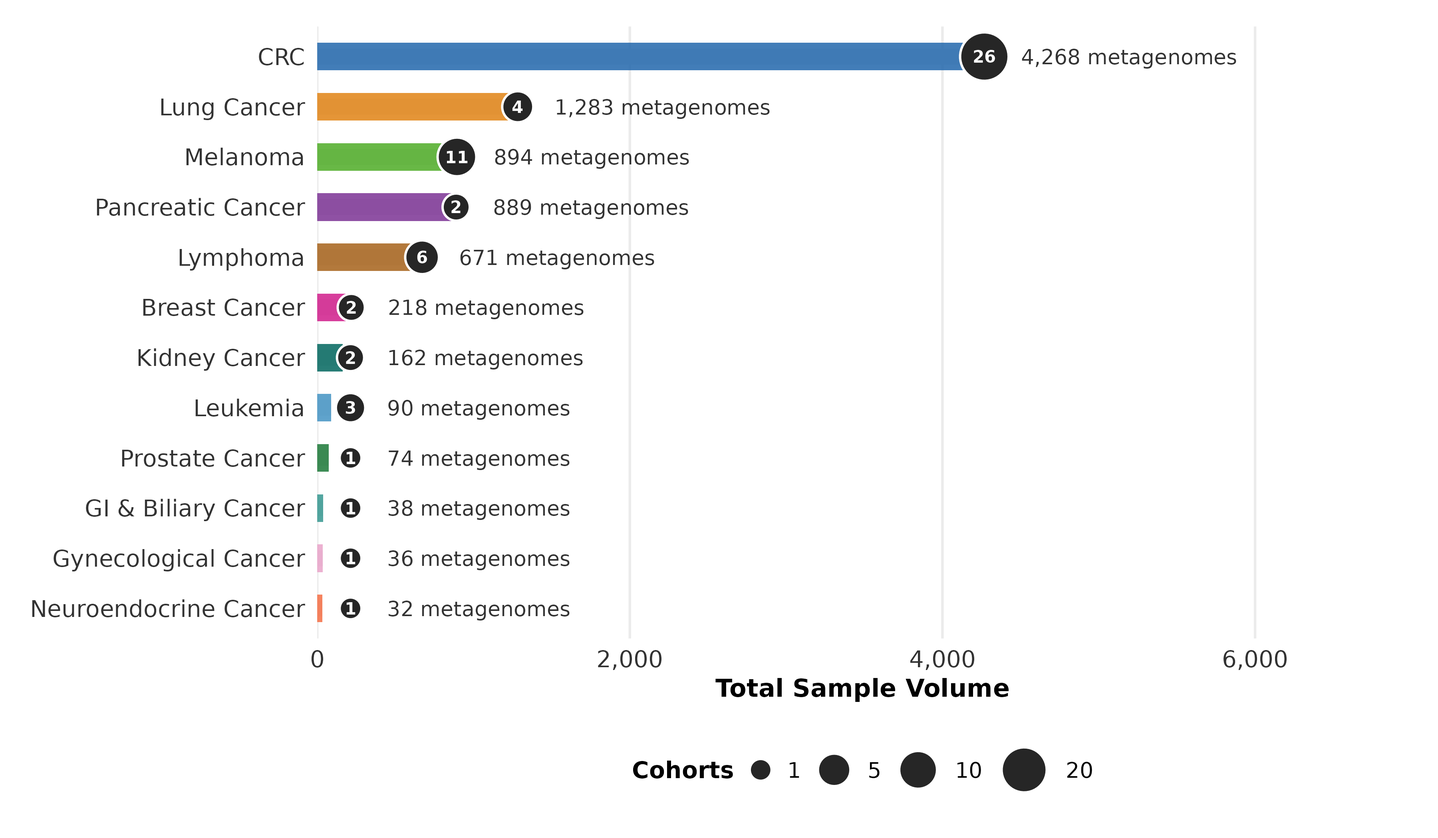
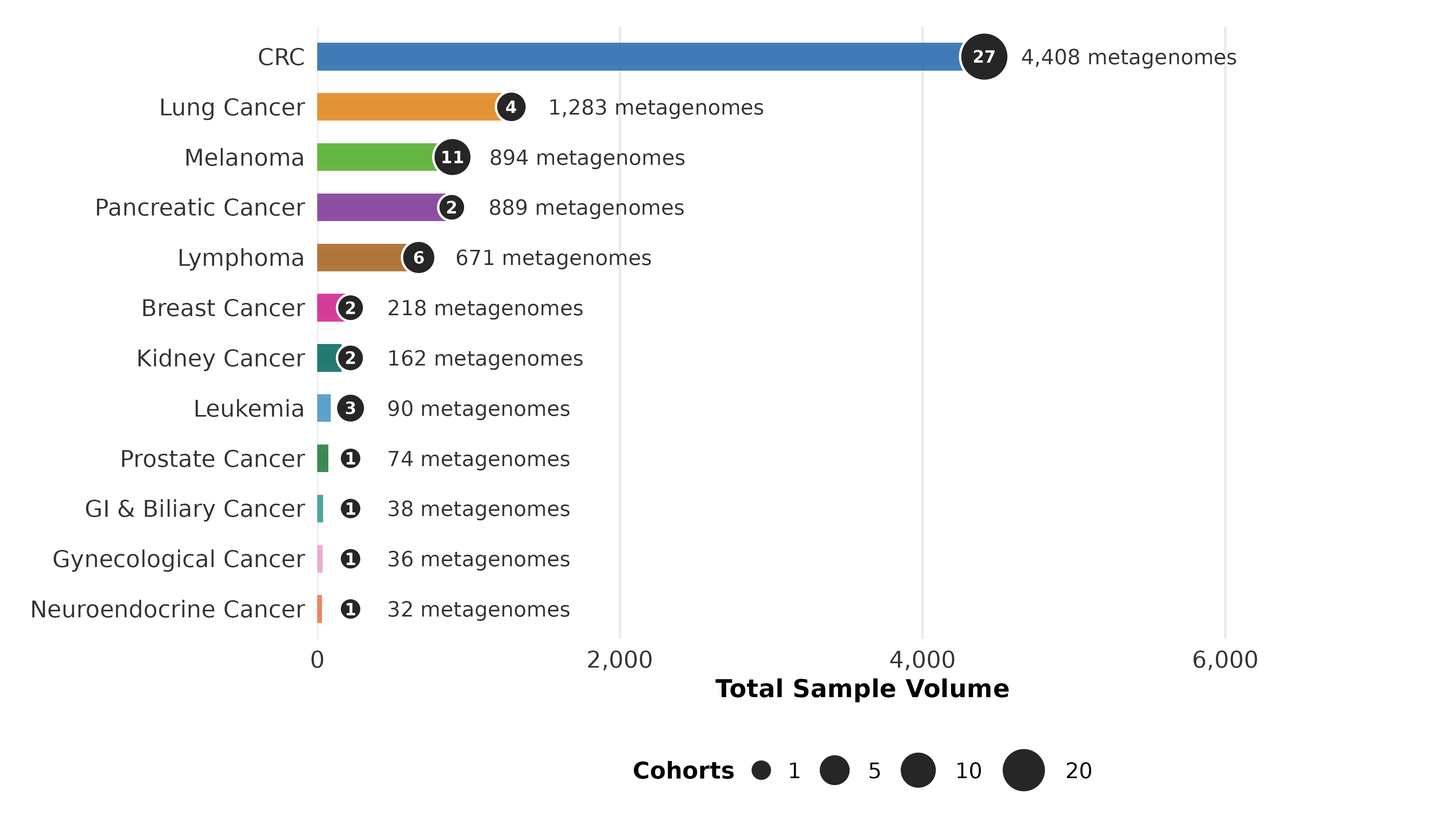
Update dashboard 2026-09-07 11:58

diff --git a/global_map.html b/global_map.html
@@ -2,6 +2,6 @@
 <head><meta charset="utf-8" /></head>
 <body>
     <div style="height:500px; width:100%;">                        <script>window.PlotlyConfig = {MathJaxConfig: 'local'};</script>
-        <script charset="utf-8" src="https://cdn.plot.ly/plotly-3.7.0.min.js" integrity="sha256-jvTGqxNp8AGWEcvNLVuKr+8j5dGe9Yw51LQkmDH+IYA=" crossorigin="anonymous"></script>                <div id="2e5592ee-933a-47bc-82ba-f1928764b4ab" class="plotly-graph-div" style="height:100%; width:100%;"></div>            <script>                window.PLOTLYENV=window.PLOTLYENV || {};                                if (document.getElementById("2e5592ee-933a-47bc-82ba-f1928764b4ab")) {                    Plotly.newPlot(                        "2e5592ee-933a-47bc-82ba-f1928764b4ab",                        [{"colorscale":[[0,"#FEF9E7"],[1,"#E59866"]],"hoverinfo":"text","locations":["AUT","CAN","CHN","CZE","FRA","DEU","IND","ISR","ITA","JPN","NLD","POL","KOR","ESP","CHE","TUR","GBR","USA"],"marker":{"line":{"color":"white","width":0.5}},"showscale":false,"text":["\u003cb\u003eAustria\u003c\u002fb\u003e\u003cbr\u003eTotal samples: 154\u003cbr\u003eStudies: 1\u003cbr\u003e\u2500\u2500\u2500\u2500\u2500\u2500\u2500\u2500\u2500\u2500\u2500\u2500\u2500\u003cbr\u003eCRC: 93","\u003cb\u003eCanada\u003c\u002fb\u003e\u003cbr\u003eTotal samples: 98\u003cbr\u003eStudies: 2\u003cbr\u003e\u2500\u2500\u2500\u2500\u2500\u2500\u2500\u2500\u2500\u2500\u2500\u2500\u2500\u003cbr\u003eMelanoma: 60\u003cbr\u003eCRC: 24","\u003cb\u003eChina\u003c\u002fb\u003e\u003cbr\u003eTotal samples: 756\u003cbr\u003eStudies: 7\u003cbr\u003e\u2500\u2500\u2500\u2500\u2500\u2500\u2500\u2500\u2500\u2500\u2500\u2500\u2500\u003cbr\u003eCRC: 418\u003cbr\u003eLymphoma: 111\u003cbr\u003eLeukemia: 20","\u003cb\u003eCzech Republic\u003c\u002fb\u003e\u003cbr\u003eTotal samples: 327\u003cbr\u003eStudies: 2\u003cbr\u003e\u2500\u2500\u2500\u2500\u2500\u2500\u2500\u2500\u2500\u2500\u2500\u2500\u2500\u003cbr\u003eCRC: 281","\u003cb\u003eFrance\u003c\u002fb\u003e\u003cbr\u003eTotal samples: 1,373\u003cbr\u003eStudies: 4\u003cbr\u003e\u2500\u2500\u2500\u2500\u2500\u2500\u2500\u2500\u2500\u2500\u2500\u2500\u2500\u003cbr\u003eLung Cancer: 1,217\u003cbr\u003eCRC: 95","\u003cb\u003eGermany\u003c\u002fb\u003e\u003cbr\u003eTotal samples: 430\u003cbr\u003eStudies: 3\u003cbr\u003e\u2500\u2500\u2500\u2500\u2500\u2500\u2500\u2500\u2500\u2500\u2500\u2500\u2500\u003cbr\u003eLymphoma: 229\u003cbr\u003ePancreatic Cancer: 76\u003cbr\u003eCRC: 60","\u003cb\u003eIndia\u003c\u002fb\u003e\u003cbr\u003eTotal samples: 60\u003cbr\u003eStudies: 1\u003cbr\u003e\u2500\u2500\u2500\u2500\u2500\u2500\u2500\u2500\u2500\u2500\u2500\u2500\u2500\u003cbr\u003eCRC: 30","\u003cb\u003eIsrael\u003c\u002fb\u003e\u003cbr\u003eTotal samples: 42\u003cbr\u003eStudies: 1\u003cbr\u003e\u2500\u2500\u2500\u2500\u2500\u2500\u2500\u2500\u2500\u2500\u2500\u2500\u2500\u003cbr\u003eMelanoma: 42","\u003cb\u003eItaly\u003c\u002fb\u003e\u003cbr\u003eTotal samples: 484\u003cbr\u003eStudies: 4\u003cbr\u003e\u2500\u2500\u2500\u2500\u2500\u2500\u2500\u2500\u2500\u2500\u2500\u2500\u2500\u003cbr\u003eCRC: 373","\u003cb\u003eJapan\u003c\u002fb\u003e\u003cbr\u003eTotal samples: 1,766\u003cbr\u003eStudies: 4\u003cbr\u003e\u2500\u2500\u2500\u2500\u2500\u2500\u2500\u2500\u2500\u2500\u2500\u2500\u2500\u003cbr\u003eCRC: 807\u003cbr\u003ePancreatic Cancer: 560","\u003cb\u003eNetherlands\u003c\u002fb\u003e\u003cbr\u003eTotal samples: 75\u003cbr\u003eStudies: 2\u003cbr\u003e\u2500\u2500\u2500\u2500\u2500\u2500\u2500\u2500\u2500\u2500\u2500\u2500\u2500\u003cbr\u003eMelanoma: 75","\u003cb\u003ePoland\u003c\u002fb\u003e\u003cbr\u003eTotal samples: 322\u003cbr\u003eStudies: 2\u003cbr\u003e\u2500\u2500\u2500\u2500\u2500\u2500\u2500\u2500\u2500\u2500\u2500\u2500\u2500\u003cbr\u003eBreast Cancer: 153\u003cbr\u003eLymphoma: 60\u003cbr\u003eLeukemia: 40","\u003cb\u003eSouth Korea\u003c\u002fb\u003e\u003cbr\u003eTotal samples: 149\u003cbr\u003eStudies: 2\u003cbr\u003e\u2500\u2500\u2500\u2500\u2500\u2500\u2500\u2500\u2500\u2500\u2500\u2500\u2500\u003cbr\u003eLymphoma: 149","\u003cb\u003eSpain\u003c\u002fb\u003e\u003cbr\u003eTotal samples: 355\u003cbr\u003eStudies: 3\u003cbr\u003e\u2500\u2500\u2500\u2500\u2500\u2500\u2500\u2500\u2500\u2500\u2500\u2500\u2500\u003cbr\u003ePancreatic Cancer: 253\u003cbr\u003eCRC: 90\u003cbr\u003eMelanoma: 12","\u003cb\u003eSwitzerland\u003c\u002fb\u003e\u003cbr\u003eTotal samples: 29\u003cbr\u003eStudies: 1\u003cbr\u003e\u2500\u2500\u2500\u2500\u2500\u2500\u2500\u2500\u2500\u2500\u2500\u2500\u2500\u003cbr\u003eProstate Cancer: 29","\u003cb\u003eTurkey\u003c\u002fb\u003e\u003cbr\u003eTotal samples: 57\u003cbr\u003eStudies: 1\u003cbr\u003e\u2500\u2500\u2500\u2500\u2500\u2500\u2500\u2500\u2500\u2500\u2500\u2500\u2500\u003cbr\u003eCRC: 18","\u003cb\u003eUnited Kingdom\u003c\u002fb\u003e\u003cbr\u003eTotal samples: 143\u003cbr\u003eStudies: 2\u003cbr\u003e\u2500\u2500\u2500\u2500\u2500\u2500\u2500\u2500\u2500\u2500\u2500\u2500\u2500\u003cbr\u003eMelanoma: 98\u003cbr\u003eProstate Cancer: 45","\u003cb\u003eUnited States\u003c\u002fb\u003e\u003cbr\u003eTotal samples: 2,096\u003cbr\u003eStudies: 13\u003cbr\u003e\u2500\u2500\u2500\u2500\u2500\u2500\u2500\u2500\u2500\u2500\u2500\u2500\u2500\u003cbr\u003eCRC: 836\u003cbr\u003eMelanoma: 607\u003cbr\u003eLymphoma: 122"],"z":{"dtype":"i2","bdata":"mgBiAPQCRwFdBa4BPAAqAOQB5gZLAEIBlQBjAR0AOQCPADAI"},"type":"choropleth"},{"hoverinfo":"text","locations":["AUT","CAN","CHN","CZE","FRA","DEU","IND","ISR","ITA","JPN","NLD","POL","KOR","ESP","CHE","TUR","GBR","USA"],"marker":{"color":"#2166AC","line":{"color":"white","width":1},"opacity":0.7,"size":{"dtype":"f8","bdata":"AAAAAAAAIEAAAAAAAAAgQD0K16NwPS5AAAAAAAAAIED2KFyPwnU7QDMzMzMzMyFAAAAAAAAAIEAAAAAAAAAgQFyPwvUoXCNAKVyPwvWoQUAAAAAAAAAgQAAAAAAAACBAAAAAAAAAIEAAAAAAAAAgQAAAAAAAACBAAAAAAAAAIEAAAAAAAAAgQPYoXI\u002fC9URA"}},"mode":"markers","text":["\u003cb\u003eAustria\u003c\u002fb\u003e\u003cbr\u003eTotal samples: 154\u003cbr\u003eStudies: 1\u003cbr\u003e\u2500\u2500\u2500\u2500\u2500\u2500\u2500\u2500\u2500\u2500\u2500\u2500\u2500\u003cbr\u003eCRC: 93","\u003cb\u003eCanada\u003c\u002fb\u003e\u003cbr\u003eTotal samples: 98\u003cbr\u003eStudies: 2\u003cbr\u003e\u2500\u2500\u2500\u2500\u2500\u2500\u2500\u2500\u2500\u2500\u2500\u2500\u2500\u003cbr\u003eMelanoma: 60\u003cbr\u003eCRC: 24","\u003cb\u003eChina\u003c\u002fb\u003e\u003cbr\u003eTotal samples: 756\u003cbr\u003eStudies: 7\u003cbr\u003e\u2500\u2500\u2500\u2500\u2500\u2500\u2500\u2500\u2500\u2500\u2500\u2500\u2500\u003cbr\u003eCRC: 418\u003cbr\u003eLymphoma: 111\u003cbr\u003eLeukemia: 20","\u003cb\u003eCzech Republic\u003c\u002fb\u003e\u003cbr\u003eTotal samples: 327\u003cbr\u003eStudies: 2\u003cbr\u003e\u2500\u2500\u2500\u2500\u2500\u2500\u2500\u2500\u2500\u2500\u2500\u2500\u2500\u003cbr\u003eCRC: 281","\u003cb\u003eFrance\u003c\u002fb\u003e\u003cbr\u003eTotal samples: 1,373\u003cbr\u003eStudies: 4\u003cbr\u003e\u2500\u2500\u2500\u2500\u2500\u2500\u2500\u2500\u2500\u2500\u2500\u2500\u2500\u003cbr\u003eLung Cancer: 1,217\u003cbr\u003eCRC: 95","\u003cb\u003eGermany\u003c\u002fb\u003e\u003cbr\u003eTotal samples: 430\u003cbr\u003eStudies: 3\u003cbr\u003e\u2500\u2500\u2500\u2500\u2500\u2500\u2500\u2500\u2500\u2500\u2500\u2500\u2500\u003cbr\u003eLymphoma: 229\u003cbr\u003ePancreatic Cancer: 76\u003cbr\u003eCRC: 60","\u003cb\u003eIndia\u003c\u002fb\u003e\u003cbr\u003eTotal samples: 60\u003cbr\u003eStudies: 1\u003cbr\u003e\u2500\u2500\u2500\u2500\u2500\u2500\u2500\u2500\u2500\u2500\u2500\u2500\u2500\u003cbr\u003eCRC: 30","\u003cb\u003eIsrael\u003c\u002fb\u003e\u003cbr\u003eTotal samples: 42\u003cbr\u003eStudies: 1\u003cbr\u003e\u2500\u2500\u2500\u2500\u2500\u2500\u2500\u2500\u2500\u2500\u2500\u2500\u2500\u003cbr\u003eMelanoma: 42","\u003cb\u003eItaly\u003c\u002fb\u003e\u003cbr\u003eTotal samples: 484\u003cbr\u003eStudies: 4\u003cbr\u003e\u2500\u2500\u2500\u2500\u2500\u2500\u2500\u2500\u2500\u2500\u2500\u2500\u2500\u003cbr\u003eCRC: 373","\u003cb\u003eJapan\u003c\u002fb\u003e\u003cbr\u003eTotal samples: 1,766\u003cbr\u003eStudies: 4\u003cbr\u003e\u2500\u2500\u2500\u2500\u2500\u2500\u2500\u2500\u2500\u2500\u2500\u2500\u2500\u003cbr\u003eCRC: 807\u003cbr\u003ePancreatic Cancer: 560","\u003cb\u003eNetherlands\u003c\u002fb\u003e\u003cbr\u003eTotal samples: 75\u003cbr\u003eStudies: 2\u003cbr\u003e\u2500\u2500\u2500\u2500\u2500\u2500\u2500\u2500\u2500\u2500\u2500\u2500\u2500\u003cbr\u003eMelanoma: 75","\u003cb\u003ePoland\u003c\u002fb\u003e\u003cbr\u003eTotal samples: 322\u003cbr\u003eStudies: 2\u003cbr\u003e\u2500\u2500\u2500\u2500\u2500\u2500\u2500\u2500\u2500\u2500\u2500\u2500\u2500\u003cbr\u003eBreast Cancer: 153\u003cbr\u003eLymphoma: 60\u003cbr\u003eLeukemia: 40","\u003cb\u003eSouth Korea\u003c\u002fb\u003e\u003cbr\u003eTotal samples: 149\u003cbr\u003eStudies: 2\u003cbr\u003e\u2500\u2500\u2500\u2500\u2500\u2500\u2500\u2500\u2500\u2500\u2500\u2500\u2500\u003cbr\u003eLymphoma: 149","\u003cb\u003eSpain\u003c\u002fb\u003e\u003cbr\u003eTotal samples: 355\u003cbr\u003eStudies: 3\u003cbr\u003e\u2500\u2500\u2500\u2500\u2500\u2500\u2500\u2500\u2500\u2500\u2500\u2500\u2500\u003cbr\u003ePancreatic Cancer: 253\u003cbr\u003eCRC: 90\u003cbr\u003eMelanoma: 12","\u003cb\u003eSwitzerland\u003c\u002fb\u003e\u003cbr\u003eTotal samples: 29\u003cbr\u003eStudies: 1\u003cbr\u003e\u2500\u2500\u2500\u2500\u2500\u2500\u2500\u2500\u2500\u2500\u2500\u2500\u2500\u003cbr\u003eProstate Cancer: 29","\u003cb\u003eTurkey\u003c\u002fb\u003e\u003cbr\u003eTotal samples: 57\u003cbr\u003eStudies: 1\u003cbr\u003e\u2500\u2500\u2500\u2500\u2500\u2500\u2500\u2500\u2500\u2500\u2500\u2500\u2500\u003cbr\u003eCRC: 18","\u003cb\u003eUnited Kingdom\u003c\u002fb\u003e\u003cbr\u003eTotal samples: 143\u003cbr\u003eStudies: 2\u003cbr\u003e\u2500\u2500\u2500\u2500\u2500\u2500\u2500\u2500\u2500\u2500\u2500\u2500\u2500\u003cbr\u003eMelanoma: 98\u003cbr\u003eProstate Cancer: 45","\u003cb\u003eUnited States\u003c\u002fb\u003e\u003cbr\u003eTotal samples: 2,096\u003cbr\u003eStudies: 13\u003cbr\u003e\u2500\u2500\u2500\u2500\u2500\u2500\u2500\u2500\u2500\u2500\u2500\u2500\u2500\u003cbr\u003eCRC: 836\u003cbr\u003eMelanoma: 607\u003cbr\u003eLymphoma: 122"],"type":"scattergeo"}],                        {"template":{"data":{"histogram2dcontour":[{"type":"histogram2dcontour","colorbar":{"outlinewidth":0,"ticks":""},"colorscale":[[0.0,"#0d0887"],[0.1111111111111111,"#46039f"],[0.2222222222222222,"#7201a8"],[0.3333333333333333,"#9c179e"],[0.4444444444444444,"#bd3786"],[0.5555555555555556,"#d8576b"],[0.6666666666666666,"#ed7953"],[0.7777777777777778,"#fb9f3a"],[0.8888888888888888,"#fdca26"],[1.0,"#f0f921"]]}],"choropleth":[{"type":"choropleth","colorbar":{"outlinewidth":0,"ticks":""}}],"histogram2d":[{"type":"histogram2d","colorbar":{"outlinewidth":0,"ticks":""},"colorscale":[[0.0,"#0d0887"],[0.1111111111111111,"#46039f"],[0.2222222222222222,"#7201a8"],[0.3333333333333333,"#9c179e"],[0.4444444444444444,"#bd3786"],[0.5555555555555556,"#d8576b"],[0.6666666666666666,"#ed7953"],[0.7777777777777778,"#fb9f3a"],[0.8888888888888888,"#fdca26"],[1.0,"#f0f921"]]}],"heatmap":[{"type":"heatmap","colorbar":{"outlinewidth":0,"ticks":""},"colorscale":[[0.0,"#0d0887"],[0.1111111111111111,"#46039f"],[0.2222222222222222,"#7201a8"],[0.3333333333333333,"#9c179e"],[0.4444444444444444,"#bd3786"],[0.5555555555555556,"#d8576b"],[0.6666666666666666,"#ed7953"],[0.7777777777777778,"#fb9f3a"],[0.8888888888888888,"#fdca26"],[1.0,"#f0f921"]]}],"contourcarpet":[{"type":"contourcarpet","colorbar":{"outlinewidth":0,"ticks":""}}],"contour":[{"type":"contour","colorbar":{"outlinewidth":0,"ticks":""},"colorscale":[[0.0,"#0d0887"],[0.1111111111111111,"#46039f"],[0.2222222222222222,"#7201a8"],[0.3333333333333333,"#9c179e"],[0.4444444444444444,"#bd3786"],[0.5555555555555556,"#d8576b"],[0.6666666666666666,"#ed7953"],[0.7777777777777778,"#fb9f3a"],[0.8888888888888888,"#fdca26"],[1.0,"#f0f921"]]}],"surface":[{"type":"surface","colorbar":{"outlinewidth":0,"ticks":""},"colorscale":[[0.0,"#0d0887"],[0.1111111111111111,"#46039f"],[0.2222222222222222,"#7201a8"],[0.3333333333333333,"#9c179e"],[0.4444444444444444,"#bd3786"],[0.5555555555555556,"#d8576b"],[0.6666666666666666,"#ed7953"],[0.7777777777777778,"#fb9f3a"],[0.8888888888888888,"#fdca26"],[1.0,"#f0f921"]]}],"mesh3d":[{"type":"mesh3d","colorbar":{"outlinewidth":0,"ticks":""}}],"scatter":[{"fillpattern":{"fillmode":"overlay","size":10,"solidity":0.2},"type":"scatter"}],"parcoords":[{"type":"parcoords","line":{"colorbar":{"outlinewidth":0,"ticks":""}}}],"scatterpolargl":[{"type":"scatterpolargl","marker":{"colorbar":{"outlinewidth":0,"ticks":""}}}],"bar":[{"error_x":{"color":"#2a3f5f"},"error_y":{"color":"#2a3f5f"},"marker":{"line":{"color":"#E5ECF6","width":0.5},"pattern":{"fillmode":"overlay","size":10,"solidity":0.2}},"type":"bar"}],"scattergeo":[{"type":"scattergeo","marker":{"colorbar":{"outlinewidth":0,"ticks":""}}}],"scatterpolar":[{"type":"scatterpolar","marker":{"colorbar":{"outlinewidth":0,"ticks":""}}}],"histogram":[{"marker":{"pattern":{"fillmode":"overlay","size":10,"solidity":0.2}},"type":"histogram"}],"scattergl":[{"type":"scattergl","marker":{"colorbar":{"outlinewidth":0,"ticks":""}}}],"scatter3d":[{"type":"scatter3d","line":{"colorbar":{"outlinewidth":0,"ticks":""}},"marker":{"colorbar":{"outlinewidth":0,"ticks":""}}}],"scattermap":[{"type":"scattermap","marker":{"colorbar":{"outlinewidth":0,"ticks":""}}}],"scattermapbox":[{"type":"scattermapbox","marker":{"colorbar":{"outlinewidth":0,"ticks":""}}}],"scatterternary":[{"type":"scatterternary","marker":{"colorbar":{"outlinewidth":0,"ticks":""}}}],"scattercarpet":[{"type":"scattercarpet","marker":{"colorbar":{"outlinewidth":0,"ticks":""}}}],"carpet":[{"aaxis":{"endlinecolor":"#2a3f5f","gridcolor":"white","linecolor":"white","minorgridcolor":"white","startlinecolor":"#2a3f5f"},"baxis":{"endlinecolor":"#2a3f5f","gridcolor":"white","linecolor":"white","minorgridcolor":"white","startlinecolor":"#2a3f5f"},"type":"carpet"}],"table":[{"cells":{"fill":{"color":"#EBF0F8"},"line":{"color":"white"}},"header":{"fill":{"color":"#C8D4E3"},"line":{"color":"white"}},"type":"table"}],"barpolar":[{"marker":{"line":{"color":"#E5ECF6","width":0.5},"pattern":{"fillmode":"overlay","size":10,"solidity":0.2}},"type":"barpolar"}],"pie":[{"automargin":true,"type":"pie"}]},"layout":{"autotypenumbers":"strict","colorway":["#636efa","#EF553B","#00cc96","#ab63fa","#FFA15A","#19d3f3","#FF6692","#B6E880","#FF97FF","#FECB52"],"font":{"color":"#2a3f5f"},"hovermode":"closest","hoverlabel":{"align":"left"},"paper_bgcolor":"white","plot_bgcolor":"#E5ECF6","polar":{"bgcolor":"#E5ECF6","angularaxis":{"gridcolor":"white","linecolor":"white","ticks":""},"radialaxis":{"gridcolor":"white","linecolor":"white","ticks":""}},"ternary":{"bgcolor":"#E5ECF6","aaxis":{"gridcolor":"white","linecolor":"white","ticks":""},"baxis":{"gridcolor":"white","linecolor":"white","ticks":""},"caxis":{"gridcolor":"white","linecolor":"white","ticks":""}},"coloraxis":{"colorbar":{"outlinewidth":0,"ticks":""}},"colorscale":{"sequential":[[0.0,"#0d0887"],[0.1111111111111111,"#46039f"],[0.2222222222222222,"#7201a8"],[0.3333333333333333,"#9c179e"],[0.4444444444444444,"#bd3786"],[0.5555555555555556,"#d8576b"],[0.6666666666666666,"#ed7953"],[0.7777777777777778,"#fb9f3a"],[0.8888888888888888,"#fdca26"],[1.0,"#f0f921"]],"sequentialminus":[[0.0,"#0d0887"],[0.1111111111111111,"#46039f"],[0.2222222222222222,"#7201a8"],[0.3333333333333333,"#9c179e"],[0.4444444444444444,"#bd3786"],[0.5555555555555556,"#d8576b"],[0.6666666666666666,"#ed7953"],[0.7777777777777778,"#fb9f3a"],[0.8888888888888888,"#fdca26"],[1.0,"#f0f921"]],"diverging":[[0,"#8e0152"],[0.1,"#c51b7d"],[0.2,"#de77ae"],[0.3,"#f1b6da"],[0.4,"#fde0ef"],[0.5,"#f7f7f7"],[0.6,"#e6f5d0"],[0.7,"#b8e186"],[0.8,"#7fbc41"],[0.9,"#4d9221"],[1,"#276419"]]},"xaxis":{"gridcolor":"white","linecolor":"white","ticks":"","title":{"standoff":15},"zerolinecolor":"white","automargin":true,"zerolinewidth":2},"yaxis":{"gridcolor":"white","linecolor":"white","ticks":"","title":{"standoff":15},"zerolinecolor":"white","automargin":true,"zerolinewidth":2},"scene":{"xaxis":{"backgroundcolor":"#E5ECF6","gridcolor":"white","linecolor":"white","showbackground":true,"ticks":"","zerolinecolor":"white","gridwidth":2},"yaxis":{"backgroundcolor":"#E5ECF6","gridcolor":"white","linecolor":"white","showbackground":true,"ticks":"","zerolinecolor":"white","gridwidth":2},"zaxis":{"backgroundcolor":"#E5ECF6","gridcolor":"white","linecolor":"white","showbackground":true,"ticks":"","zerolinecolor":"white","gridwidth":2}},"shapedefaults":{"line":{"color":"#2a3f5f"}},"annotationdefaults":{"arrowcolor":"#2a3f5f","arrowhead":0,"arrowwidth":1},"geo":{"bgcolor":"white","landcolor":"#E5ECF6","subunitcolor":"white","showland":true,"showlakes":true,"lakecolor":"white"},"title":{"x":0.05},"mapbox":{"style":"light"}}},"geo":{"projection":{"type":"natural earth"},"showframe":false,"showcoastlines":true,"coastlinecolor":"grey","showland":true,"landcolor":"#F5F5F2","showocean":true,"oceancolor":"#EAF2F8","showlakes":false,"bgcolor":"#EAF2F8"},"margin":{"l":0,"r":0,"t":30,"b":0},"title":{"font":{"size":16},"text":"Global distribution of cancer microbiome studies","x":0.5},"hoverlabel":{"font":{"size":13,"family":"Arial"},"bgcolor":"white"},"height":500,"paper_bgcolor":"white"},                        {"responsive": true}                    )                };            </script>        </div>
+        <script charset="utf-8" src="https://cdn.plot.ly/plotly-3.7.0.min.js" integrity="sha256-jvTGqxNp8AGWEcvNLVuKr+8j5dGe9Yw51LQkmDH+IYA=" crossorigin="anonymous"></script>                <div id="f055b419-9105-4efe-8177-522372d4679e" class="plotly-graph-div" style="height:100%; width:100%;"></div>            <script>                window.PLOTLYENV=window.PLOTLYENV || {};                                if (document.getElementById("f055b419-9105-4efe-8177-522372d4679e")) {                    Plotly.newPlot(                        "f055b419-9105-4efe-8177-522372d4679e",                        [{"colorscale":[[0,"#FEF9E7"],[1,"#E59866"]],"hoverinfo":"text","locations":["AUT","CAN","CHN","CZE","FRA","DEU","IND","ISR","ITA","JPN","NLD","POL","KOR","ESP","CHE","TUR","GBR","USA"],"marker":{"line":{"color":"white","width":0.5}},"showscale":false,"text":["\u003cb\u003eAustria\u003c\u002fb\u003e\u003cbr\u003eTotal samples: 154\u003cbr\u003eStudies: 1\u003cbr\u003e\u2500\u2500\u2500\u2500\u2500\u2500\u2500\u2500\u2500\u2500\u2500\u2500\u2500\u003cbr\u003eCRC: 93","\u003cb\u003eCanada\u003c\u002fb\u003e\u003cbr\u003eTotal samples: 98\u003cbr\u003eStudies: 2\u003cbr\u003e\u2500\u2500\u2500\u2500\u2500\u2500\u2500\u2500\u2500\u2500\u2500\u2500\u2500\u003cbr\u003eMelanoma: 60\u003cbr\u003eCRC: 24","\u003cb\u003eChina\u003c\u002fb\u003e\u003cbr\u003eTotal samples: 756\u003cbr\u003eStudies: 7\u003cbr\u003e\u2500\u2500\u2500\u2500\u2500\u2500\u2500\u2500\u2500\u2500\u2500\u2500\u2500\u003cbr\u003eCRC: 418\u003cbr\u003eLymphoma: 111\u003cbr\u003eLeukemia: 20","\u003cb\u003eCzech Republic\u003c\u002fb\u003e\u003cbr\u003eTotal samples: 327\u003cbr\u003eStudies: 2\u003cbr\u003e\u2500\u2500\u2500\u2500\u2500\u2500\u2500\u2500\u2500\u2500\u2500\u2500\u2500\u003cbr\u003eCRC: 281","\u003cb\u003eFrance\u003c\u002fb\u003e\u003cbr\u003eTotal samples: 1,373\u003cbr\u003eStudies: 4\u003cbr\u003e\u2500\u2500\u2500\u2500\u2500\u2500\u2500\u2500\u2500\u2500\u2500\u2500\u2500\u003cbr\u003eLung Cancer: 1,217\u003cbr\u003eCRC: 95","\u003cb\u003eGermany\u003c\u002fb\u003e\u003cbr\u003eTotal samples: 430\u003cbr\u003eStudies: 3\u003cbr\u003e\u2500\u2500\u2500\u2500\u2500\u2500\u2500\u2500\u2500\u2500\u2500\u2500\u2500\u003cbr\u003eLymphoma: 229\u003cbr\u003ePancreatic Cancer: 76\u003cbr\u003eCRC: 60","\u003cb\u003eIndia\u003c\u002fb\u003e\u003cbr\u003eTotal samples: 90\u003cbr\u003eStudies: 2\u003cbr\u003e\u2500\u2500\u2500\u2500\u2500\u2500\u2500\u2500\u2500\u2500\u2500\u2500\u2500\u003cbr\u003eCRC: 60","\u003cb\u003eIsrael\u003c\u002fb\u003e\u003cbr\u003eTotal samples: 42\u003cbr\u003eStudies: 1\u003cbr\u003e\u2500\u2500\u2500\u2500\u2500\u2500\u2500\u2500\u2500\u2500\u2500\u2500\u2500\u003cbr\u003eMelanoma: 42","\u003cb\u003eItaly\u003c\u002fb\u003e\u003cbr\u003eTotal samples: 484\u003cbr\u003eStudies: 4\u003cbr\u003e\u2500\u2500\u2500\u2500\u2500\u2500\u2500\u2500\u2500\u2500\u2500\u2500\u2500\u003cbr\u003eCRC: 373","\u003cb\u003eJapan\u003c\u002fb\u003e\u003cbr\u003eTotal samples: 1,766\u003cbr\u003eStudies: 4\u003cbr\u003e\u2500\u2500\u2500\u2500\u2500\u2500\u2500\u2500\u2500\u2500\u2500\u2500\u2500\u003cbr\u003eCRC: 807\u003cbr\u003ePancreatic Cancer: 560","\u003cb\u003eNetherlands\u003c\u002fb\u003e\u003cbr\u003eTotal samples: 75\u003cbr\u003eStudies: 2\u003cbr\u003e\u2500\u2500\u2500\u2500\u2500\u2500\u2500\u2500\u2500\u2500\u2500\u2500\u2500\u003cbr\u003eMelanoma: 75","\u003cb\u003ePoland\u003c\u002fb\u003e\u003cbr\u003eTotal samples: 322\u003cbr\u003eStudies: 2\u003cbr\u003e\u2500\u2500\u2500\u2500\u2500\u2500\u2500\u2500\u2500\u2500\u2500\u2500\u2500\u003cbr\u003eBreast Cancer: 153\u003cbr\u003eLymphoma: 60\u003cbr\u003eLeukemia: 40","\u003cb\u003eSouth Korea\u003c\u002fb\u003e\u003cbr\u003eTotal samples: 149\u003cbr\u003eStudies: 2\u003cbr\u003e\u2500\u2500\u2500\u2500\u2500\u2500\u2500\u2500\u2500\u2500\u2500\u2500\u2500\u003cbr\u003eLymphoma: 149","\u003cb\u003eSpain\u003c\u002fb\u003e\u003cbr\u003eTotal samples: 355\u003cbr\u003eStudies: 3\u003cbr\u003e\u2500\u2500\u2500\u2500\u2500\u2500\u2500\u2500\u2500\u2500\u2500\u2500\u2500\u003cbr\u003ePancreatic Cancer: 253\u003cbr\u003eCRC: 90\u003cbr\u003eMelanoma: 12","\u003cb\u003eSwitzerland\u003c\u002fb\u003e\u003cbr\u003eTotal samples: 29\u003cbr\u003eStudies: 1\u003cbr\u003e\u2500\u2500\u2500\u2500\u2500\u2500\u2500\u2500\u2500\u2500\u2500\u2500\u2500\u003cbr\u003eProstate Cancer: 29","\u003cb\u003eTurkey\u003c\u002fb\u003e\u003cbr\u003eTotal samples: 57\u003cbr\u003eStudies: 1\u003cbr\u003e\u2500\u2500\u2500\u2500\u2500\u2500\u2500\u2500\u2500\u2500\u2500\u2500\u2500\u003cbr\u003eCRC: 18","\u003cb\u003eUnited Kingdom\u003c\u002fb\u003e\u003cbr\u003eTotal samples: 143\u003cbr\u003eStudies: 2\u003cbr\u003e\u2500\u2500\u2500\u2500\u2500\u2500\u2500\u2500\u2500\u2500\u2500\u2500\u2500\u003cbr\u003eMelanoma: 98\u003cbr\u003eProstate Cancer: 45","\u003cb\u003eUnited States\u003c\u002fb\u003e\u003cbr\u003eTotal samples: 2,096\u003cbr\u003eStudies: 13\u003cbr\u003e\u2500\u2500\u2500\u2500\u2500\u2500\u2500\u2500\u2500\u2500\u2500\u2500\u2500\u003cbr\u003eCRC: 836\u003cbr\u003eMelanoma: 607\u003cbr\u003eLymphoma: 122"],"z":{"dtype":"i2","bdata":"mgBiAPQCRwFdBa4BWgAqAOQB5gZLAEIBlQBjAR0AOQCPADAI"},"type":"choropleth"},{"hoverinfo":"text","locations":["AUT","CAN","CHN","CZE","FRA","DEU","IND","ISR","ITA","JPN","NLD","POL","KOR","ESP","CHE","TUR","GBR","USA"],"marker":{"color":"#2166AC","line":{"color":"white","width":1},"opacity":0.7,"size":{"dtype":"f8","bdata":"AAAAAAAAIEAAAAAAAAAgQD0K16NwPS5AAAAAAAAAIED2KFyPwnU7QDMzMzMzMyFAAAAAAAAAIEAAAAAAAAAgQFyPwvUoXCNAKVyPwvWoQUAAAAAAAAAgQAAAAAAAACBAAAAAAAAAIEAAAAAAAAAgQAAAAAAAACBAAAAAAAAAIEAAAAAAAAAgQPYoXI\u002fC9URA"}},"mode":"markers","text":["\u003cb\u003eAustria\u003c\u002fb\u003e\u003cbr\u003eTotal samples: 154\u003cbr\u003eStudies: 1\u003cbr\u003e\u2500\u2500\u2500\u2500\u2500\u2500\u2500\u2500\u2500\u2500\u2500\u2500\u2500\u003cbr\u003eCRC: 93","\u003cb\u003eCanada\u003c\u002fb\u003e\u003cbr\u003eTotal samples: 98\u003cbr\u003eStudies: 2\u003cbr\u003e\u2500\u2500\u2500\u2500\u2500\u2500\u2500\u2500\u2500\u2500\u2500\u2500\u2500\u003cbr\u003eMelanoma: 60\u003cbr\u003eCRC: 24","\u003cb\u003eChina\u003c\u002fb\u003e\u003cbr\u003eTotal samples: 756\u003cbr\u003eStudies: 7\u003cbr\u003e\u2500\u2500\u2500\u2500\u2500\u2500\u2500\u2500\u2500\u2500\u2500\u2500\u2500\u003cbr\u003eCRC: 418\u003cbr\u003eLymphoma: 111\u003cbr\u003eLeukemia: 20","\u003cb\u003eCzech Republic\u003c\u002fb\u003e\u003cbr\u003eTotal samples: 327\u003cbr\u003eStudies: 2\u003cbr\u003e\u2500\u2500\u2500\u2500\u2500\u2500\u2500\u2500\u2500\u2500\u2500\u2500\u2500\u003cbr\u003eCRC: 281","\u003cb\u003eFrance\u003c\u002fb\u003e\u003cbr\u003eTotal samples: 1,373\u003cbr\u003eStudies: 4\u003cbr\u003e\u2500\u2500\u2500\u2500\u2500\u2500\u2500\u2500\u2500\u2500\u2500\u2500\u2500\u003cbr\u003eLung Cancer: 1,217\u003cbr\u003eCRC: 95","\u003cb\u003eGermany\u003c\u002fb\u003e\u003cbr\u003eTotal samples: 430\u003cbr\u003eStudies: 3\u003cbr\u003e\u2500\u2500\u2500\u2500\u2500\u2500\u2500\u2500\u2500\u2500\u2500\u2500\u2500\u003cbr\u003eLymphoma: 229\u003cbr\u003ePancreatic Cancer: 76\u003cbr\u003eCRC: 60","\u003cb\u003eIndia\u003c\u002fb\u003e\u003cbr\u003eTotal samples: 90\u003cbr\u003eStudies: 2\u003cbr\u003e\u2500\u2500\u2500\u2500\u2500\u2500\u2500\u2500\u2500\u2500\u2500\u2500\u2500\u003cbr\u003eCRC: 60","\u003cb\u003eIsrael\u003c\u002fb\u003e\u003cbr\u003eTotal samples: 42\u003cbr\u003eStudies: 1\u003cbr\u003e\u2500\u2500\u2500\u2500\u2500\u2500\u2500\u2500\u2500\u2500\u2500\u2500\u2500\u003cbr\u003eMelanoma: 42","\u003cb\u003eItaly\u003c\u002fb\u003e\u003cbr\u003eTotal samples: 484\u003cbr\u003eStudies: 4\u003cbr\u003e\u2500\u2500\u2500\u2500\u2500\u2500\u2500\u2500\u2500\u2500\u2500\u2500\u2500\u003cbr\u003eCRC: 373","\u003cb\u003eJapan\u003c\u002fb\u003e\u003cbr\u003eTotal samples: 1,766\u003cbr\u003eStudies: 4\u003cbr\u003e\u2500\u2500\u2500\u2500\u2500\u2500\u2500\u2500\u2500\u2500\u2500\u2500\u2500\u003cbr\u003eCRC: 807\u003cbr\u003ePancreatic Cancer: 560","\u003cb\u003eNetherlands\u003c\u002fb\u003e\u003cbr\u003eTotal samples: 75\u003cbr\u003eStudies: 2\u003cbr\u003e\u2500\u2500\u2500\u2500\u2500\u2500\u2500\u2500\u2500\u2500\u2500\u2500\u2500\u003cbr\u003eMelanoma: 75","\u003cb\u003ePoland\u003c\u002fb\u003e\u003cbr\u003eTotal samples: 322\u003cbr\u003eStudies: 2\u003cbr\u003e\u2500\u2500\u2500\u2500\u2500\u2500\u2500\u2500\u2500\u2500\u2500\u2500\u2500\u003cbr\u003eBreast Cancer: 153\u003cbr\u003eLymphoma: 60\u003cbr\u003eLeukemia: 40","\u003cb\u003eSouth Korea\u003c\u002fb\u003e\u003cbr\u003eTotal samples: 149\u003cbr\u003eStudies: 2\u003cbr\u003e\u2500\u2500\u2500\u2500\u2500\u2500\u2500\u2500\u2500\u2500\u2500\u2500\u2500\u003cbr\u003eLymphoma: 149","\u003cb\u003eSpain\u003c\u002fb\u003e\u003cbr\u003eTotal samples: 355\u003cbr\u003eStudies: 3\u003cbr\u003e\u2500\u2500\u2500\u2500\u2500\u2500\u2500\u2500\u2500\u2500\u2500\u2500\u2500\u003cbr\u003ePancreatic Cancer: 253\u003cbr\u003eCRC: 90\u003cbr\u003eMelanoma: 12","\u003cb\u003eSwitzerland\u003c\u002fb\u003e\u003cbr\u003eTotal samples: 29\u003cbr\u003eStudies: 1\u003cbr\u003e\u2500\u2500\u2500\u2500\u2500\u2500\u2500\u2500\u2500\u2500\u2500\u2500\u2500\u003cbr\u003eProstate Cancer: 29","\u003cb\u003eTurkey\u003c\u002fb\u003e\u003cbr\u003eTotal samples: 57\u003cbr\u003eStudies: 1\u003cbr\u003e\u2500\u2500\u2500\u2500\u2500\u2500\u2500\u2500\u2500\u2500\u2500\u2500\u2500\u003cbr\u003eCRC: 18","\u003cb\u003eUnited Kingdom\u003c\u002fb\u003e\u003cbr\u003eTotal samples: 143\u003cbr\u003eStudies: 2\u003cbr\u003e\u2500\u2500\u2500\u2500\u2500\u2500\u2500\u2500\u2500\u2500\u2500\u2500\u2500\u003cbr\u003eMelanoma: 98\u003cbr\u003eProstate Cancer: 45","\u003cb\u003eUnited States\u003c\u002fb\u003e\u003cbr\u003eTotal samples: 2,096\u003cbr\u003eStudies: 13\u003cbr\u003e\u2500\u2500\u2500\u2500\u2500\u2500\u2500\u2500\u2500\u2500\u2500\u2500\u2500\u003cbr\u003eCRC: 836\u003cbr\u003eMelanoma: 607\u003cbr\u003eLymphoma: 122"],"type":"scattergeo"}],                        {"template":{"data":{"histogram2dcontour":[{"type":"histogram2dcontour","colorbar":{"outlinewidth":0,"ticks":""},"colorscale":[[0.0,"#0d0887"],[0.1111111111111111,"#46039f"],[0.2222222222222222,"#7201a8"],[0.3333333333333333,"#9c179e"],[0.4444444444444444,"#bd3786"],[0.5555555555555556,"#d8576b"],[0.6666666666666666,"#ed7953"],[0.7777777777777778,"#fb9f3a"],[0.8888888888888888,"#fdca26"],[1.0,"#f0f921"]]}],"choropleth":[{"type":"choropleth","colorbar":{"outlinewidth":0,"ticks":""}}],"histogram2d":[{"type":"histogram2d","colorbar":{"outlinewidth":0,"ticks":""},"colorscale":[[0.0,"#0d0887"],[0.1111111111111111,"#46039f"],[0.2222222222222222,"#7201a8"],[0.3333333333333333,"#9c179e"],[0.4444444444444444,"#bd3786"],[0.5555555555555556,"#d8576b"],[0.6666666666666666,"#ed7953"],[0.7777777777777778,"#fb9f3a"],[0.8888888888888888,"#fdca26"],[1.0,"#f0f921"]]}],"heatmap":[{"type":"heatmap","colorbar":{"outlinewidth":0,"ticks":""},"colorscale":[[0.0,"#0d0887"],[0.1111111111111111,"#46039f"],[0.2222222222222222,"#7201a8"],[0.3333333333333333,"#9c179e"],[0.4444444444444444,"#bd3786"],[0.5555555555555556,"#d8576b"],[0.6666666666666666,"#ed7953"],[0.7777777777777778,"#fb9f3a"],[0.8888888888888888,"#fdca26"],[1.0,"#f0f921"]]}],"contourcarpet":[{"type":"contourcarpet","colorbar":{"outlinewidth":0,"ticks":""}}],"contour":[{"type":"contour","colorbar":{"outlinewidth":0,"ticks":""},"colorscale":[[0.0,"#0d0887"],[0.1111111111111111,"#46039f"],[0.2222222222222222,"#7201a8"],[0.3333333333333333,"#9c179e"],[0.4444444444444444,"#bd3786"],[0.5555555555555556,"#d8576b"],[0.6666666666666666,"#ed7953"],[0.7777777777777778,"#fb9f3a"],[0.8888888888888888,"#fdca26"],[1.0,"#f0f921"]]}],"surface":[{"type":"surface","colorbar":{"outlinewidth":0,"ticks":""},"colorscale":[[0.0,"#0d0887"],[0.1111111111111111,"#46039f"],[0.2222222222222222,"#7201a8"],[0.3333333333333333,"#9c179e"],[0.4444444444444444,"#bd3786"],[0.5555555555555556,"#d8576b"],[0.6666666666666666,"#ed7953"],[0.7777777777777778,"#fb9f3a"],[0.8888888888888888,"#fdca26"],[1.0,"#f0f921"]]}],"mesh3d":[{"type":"mesh3d","colorbar":{"outlinewidth":0,"ticks":""}}],"scatter":[{"fillpattern":{"fillmode":"overlay","size":10,"solidity":0.2},"type":"scatter"}],"parcoords":[{"type":"parcoords","line":{"colorbar":{"outlinewidth":0,"ticks":""}}}],"scatterpolargl":[{"type":"scatterpolargl","marker":{"colorbar":{"outlinewidth":0,"ticks":""}}}],"bar":[{"error_x":{"color":"#2a3f5f"},"error_y":{"color":"#2a3f5f"},"marker":{"line":{"color":"#E5ECF6","width":0.5},"pattern":{"fillmode":"overlay","size":10,"solidity":0.2}},"type":"bar"}],"scattergeo":[{"type":"scattergeo","marker":{"colorbar":{"outlinewidth":0,"ticks":""}}}],"scatterpolar":[{"type":"scatterpolar","marker":{"colorbar":{"outlinewidth":0,"ticks":""}}}],"histogram":[{"marker":{"pattern":{"fillmode":"overlay","size":10,"solidity":0.2}},"type":"histogram"}],"scattergl":[{"type":"scattergl","marker":{"colorbar":{"outlinewidth":0,"ticks":""}}}],"scatter3d":[{"type":"scatter3d","line":{"colorbar":{"outlinewidth":0,"ticks":""}},"marker":{"colorbar":{"outlinewidth":0,"ticks":""}}}],"scattermap":[{"type":"scattermap","marker":{"colorbar":{"outlinewidth":0,"ticks":""}}}],"scattermapbox":[{"type":"scattermapbox","marker":{"colorbar":{"outlinewidth":0,"ticks":""}}}],"scatterternary":[{"type":"scatterternary","marker":{"colorbar":{"outlinewidth":0,"ticks":""}}}],"scattercarpet":[{"type":"scattercarpet","marker":{"colorbar":{"outlinewidth":0,"ticks":""}}}],"carpet":[{"aaxis":{"endlinecolor":"#2a3f5f","gridcolor":"white","linecolor":"white","minorgridcolor":"white","startlinecolor":"#2a3f5f"},"baxis":{"endlinecolor":"#2a3f5f","gridcolor":"white","linecolor":"white","minorgridcolor":"white","startlinecolor":"#2a3f5f"},"type":"carpet"}],"table":[{"cells":{"fill":{"color":"#EBF0F8"},"line":{"color":"white"}},"header":{"fill":{"color":"#C8D4E3"},"line":{"color":"white"}},"type":"table"}],"barpolar":[{"marker":{"line":{"color":"#E5ECF6","width":0.5},"pattern":{"fillmode":"overlay","size":10,"solidity":0.2}},"type":"barpolar"}],"pie":[{"automargin":true,"type":"pie"}]},"layout":{"autotypenumbers":"strict","colorway":["#636efa","#EF553B","#00cc96","#ab63fa","#FFA15A","#19d3f3","#FF6692","#B6E880","#FF97FF","#FECB52"],"font":{"color":"#2a3f5f"},"hovermode":"closest","hoverlabel":{"align":"left"},"paper_bgcolor":"white","plot_bgcolor":"#E5ECF6","polar":{"bgcolor":"#E5ECF6","angularaxis":{"gridcolor":"white","linecolor":"white","ticks":""},"radialaxis":{"gridcolor":"white","linecolor":"white","ticks":""}},"ternary":{"bgcolor":"#E5ECF6","aaxis":{"gridcolor":"white","linecolor":"white","ticks":""},"baxis":{"gridcolor":"white","linecolor":"white","ticks":""},"caxis":{"gridcolor":"white","linecolor":"white","ticks":""}},"coloraxis":{"colorbar":{"outlinewidth":0,"ticks":""}},"colorscale":{"sequential":[[0.0,"#0d0887"],[0.1111111111111111,"#46039f"],[0.2222222222222222,"#7201a8"],[0.3333333333333333,"#9c179e"],[0.4444444444444444,"#bd3786"],[0.5555555555555556,"#d8576b"],[0.6666666666666666,"#ed7953"],[0.7777777777777778,"#fb9f3a"],[0.8888888888888888,"#fdca26"],[1.0,"#f0f921"]],"sequentialminus":[[0.0,"#0d0887"],[0.1111111111111111,"#46039f"],[0.2222222222222222,"#7201a8"],[0.3333333333333333,"#9c179e"],[0.4444444444444444,"#bd3786"],[0.5555555555555556,"#d8576b"],[0.6666666666666666,"#ed7953"],[0.7777777777777778,"#fb9f3a"],[0.8888888888888888,"#fdca26"],[1.0,"#f0f921"]],"diverging":[[0,"#8e0152"],[0.1,"#c51b7d"],[0.2,"#de77ae"],[0.3,"#f1b6da"],[0.4,"#fde0ef"],[0.5,"#f7f7f7"],[0.6,"#e6f5d0"],[0.7,"#b8e186"],[0.8,"#7fbc41"],[0.9,"#4d9221"],[1,"#276419"]]},"xaxis":{"gridcolor":"white","linecolor":"white","ticks":"","title":{"standoff":15},"zerolinecolor":"white","automargin":true,"zerolinewidth":2},"yaxis":{"gridcolor":"white","linecolor":"white","ticks":"","title":{"standoff":15},"zerolinecolor":"white","automargin":true,"zerolinewidth":2},"scene":{"xaxis":{"backgroundcolor":"#E5ECF6","gridcolor":"white","linecolor":"white","showbackground":true,"ticks":"","zerolinecolor":"white","gridwidth":2},"yaxis":{"backgroundcolor":"#E5ECF6","gridcolor":"white","linecolor":"white","showbackground":true,"ticks":"","zerolinecolor":"white","gridwidth":2},"zaxis":{"backgroundcolor":"#E5ECF6","gridcolor":"white","linecolor":"white","showbackground":true,"ticks":"","zerolinecolor":"white","gridwidth":2}},"shapedefaults":{"line":{"color":"#2a3f5f"}},"annotationdefaults":{"arrowcolor":"#2a3f5f","arrowhead":0,"arrowwidth":1},"geo":{"bgcolor":"white","landcolor":"#E5ECF6","subunitcolor":"white","showland":true,"showlakes":true,"lakecolor":"white"},"title":{"x":0.05},"mapbox":{"style":"light"}}},"geo":{"projection":{"type":"natural earth"},"showframe":false,"showcoastlines":true,"coastlinecolor":"grey","showland":true,"landcolor":"#F5F5F2","showocean":true,"oceancolor":"#EAF2F8","showlakes":false,"bgcolor":"#EAF2F8"},"margin":{"l":0,"r":0,"t":30,"b":0},"title":{"font":{"size":16},"text":"Global distribution of cancer microbiome studies","x":0.5},"hoverlabel":{"font":{"size":13,"family":"Arial"},"bgcolor":"white"},"height":500,"paper_bgcolor":"white"},                        {"responsive": true}                    )                };            </script>        </div>
 </body>
 </html>

diff --git a/index.html b/index.html
@@ -459,7 +459,7 @@
 
 
 <h1 id="curatedmetagenomicdata-cancer-datasets-overview">curatedMetagenomicData -- Cancer Datasets Overview</h1>
-<p><em>Last updated: 2026-09-07 09:30 UTC</em></p>
+<p><em>Last updated: 2026-09-07 09:57 UTC</em></p>
 <h2 id="summary">Summary</h2>
 <table>
 <thead>
@@ -471,7 +471,7 @@
 <tbody>
 <tr>
 <td><strong>Studies</strong></td>
-<td>57</td>
+<td>58</td>
 </tr>
 <tr>
 <td><strong>Countries represented</strong></td>
@@ -479,15 +479,15 @@
 </tr>
 <tr>
 <td><strong>Total samples</strong></td>
-<td>10,385</td>
+<td>10,415</td>
 </tr>
 <tr>
 <td><strong>Subjects</strong></td>
-<td>9,499 <sup id="fnref:denominator"><a class="footnote-ref" href="#fn:denominator">1</a></sup></td>
+<td>9,529 <sup id="fnref:denominator"><a class="footnote-ref" href="#fn:denominator">1</a></sup></td>
 </tr>
 <tr>
 <td>Cancer-related samples</td>
-<td>8,617 (6,585 malignant, 2,032 precursor lesions)</td>
+<td>8,647 (6,615 malignant, 2,032 precursor lesions)</td>
 </tr>
 <tr>
 <td>Non-cancer / control samples</td>
@@ -507,15 +507,15 @@
 </tr>
 <tr>
 <td>Subjects with sex information</td>
-<td>7,376 / 9,499 (77.7%) — available in 41 / 57 studies</td>
+<td>7,376 / 9,529 (77.4%) — available in 41 / 58 studies</td>
 </tr>
 <tr>
 <td>Subjects with age information</td>
-<td>6,509 / 9,499 (68.5%) — available in 39 / 57 studies</td>
+<td>6,539 / 9,529 (68.6%) — available in 40 / 58 studies</td>
 </tr>
 <tr>
 <td>Subjects with BMI information</td>
-<td>6,016 / 9,499 (63.3%) — available in 34 / 57 studies</td>
+<td>6,016 / 9,529 (63.1%) — available in 34 / 58 studies</td>
 </tr>
 </tbody>
 </table>
@@ -583,55 +583,55 @@ total above. They are counted separately in the breakdown.</p>
 </tr>
 <tr>
 <td style="text-align: left;">NagataN_2022</td>
+<td style="text-align: left;">NileS_2025</td>
 <td style="text-align: left;">NofinskaB_2026</td>
 <td style="text-align: left;">PernigoniN_2021</td>
-<td style="text-align: left;">PetersBA_2019</td>
 </tr>
 <tr>
+<td style="text-align: left;">PetersBA_2019</td>
 <td style="text-align: left;">PiccinnoG_2025_a</td>
 <td style="text-align: left;">PiccinnoG_2025_b</td>
 <td style="text-align: left;">PiccinnoG_2025_c</td>
-<td style="text-align: left;">PiccinnoG_2025_d</td>
 </tr>
 <tr>
+<td style="text-align: left;">PiccinnoG_2025_d</td>
 <td style="text-align: left;">PiccinnoG_2025_e</td>
 <td style="text-align: left;">PiccinnoG_2025_f</td>
 <td style="text-align: left;">PoetgensS_2024</td>
-<td style="text-align: left;">RoelandsJ_2023</td>
 </tr>
 <tr>
+<td style="text-align: left;">RoelandsJ_2023</td>
 <td style="text-align: left;">RoutyB_2018</td>
 <td style="text-align: left;">Routy_2023</td>
 <td style="text-align: left;">ShiZ_2025</td>
-<td style="text-align: left;">SpanogiannopoulosP_2022</td>
 </tr>
 <tr>
+<td style="text-align: left;">SpanogiannopoulosP_2022</td>
 <td style="text-align: left;">SpencerCN_2021</td>
 <td style="text-align: left;">Stein-ThoeringerCK_2023</td>
 <td style="text-align: left;">TengNM_2024</td>
-<td style="text-align: left;">ThomasAM_2019_a</td>
 </tr>
 <tr>
+<td style="text-align: left;">ThomasAM_2019_a</td>
 <td style="text-align: left;">ThomasAM_2019_b</td>
 <td style="text-align: left;">ThomasAM_2019_c</td>
 <td style="text-align: left;">VogtmannE_2016</td>
-<td style="text-align: left;">WindTT_2020</td>
 </tr>
 <tr>
+<td style="text-align: left;">WindTT_2020</td>
 <td style="text-align: left;">WirbelJ_2018</td>
 <td style="text-align: left;">XuJ_2022</td>
 <td style="text-align: left;">YachidaS_2019</td>
-<td style="text-align: left;">YangJ_2020</td>
 </tr>
 <tr>
+<td style="text-align: left;">YangJ_2020</td>
 <td style="text-align: left;">YoonS_2023</td>
 <td style="text-align: left;">YoonS_2025</td>
 <td style="text-align: left;">YuJ_2015</td>
-<td style="text-align: left;">ZellerG_2014</td>
 </tr>
 <tr>
+<td style="text-align: left;">ZellerG_2014</td>
 <td style="text-align: left;">ZhangY_2023</td>
-<td style="text-align: left;"></td>
 <td style="text-align: left;"></td>
 <td style="text-align: left;"></td>
 </tr>
@@ -642,7 +642,7 @@ total above. They are counted separately in the breakdown.</p>
 <ol>
 <li id="fn:denominator">
 <p>4,940 of these have an explicit subject identifier in the
-source metadata. 17 studies do not record subject IDs, so each of
+source metadata. 18 studies do not record subject IDs, so each of
 their samples counts as one subject and the true number of distinct people is lower.&#160;<a class="footnote-backref" href="#fnref:denominator" title="Jump back to footnote 1 in the text">&#8617;</a></p>
 </li>
 <li id="fn:repeated">
